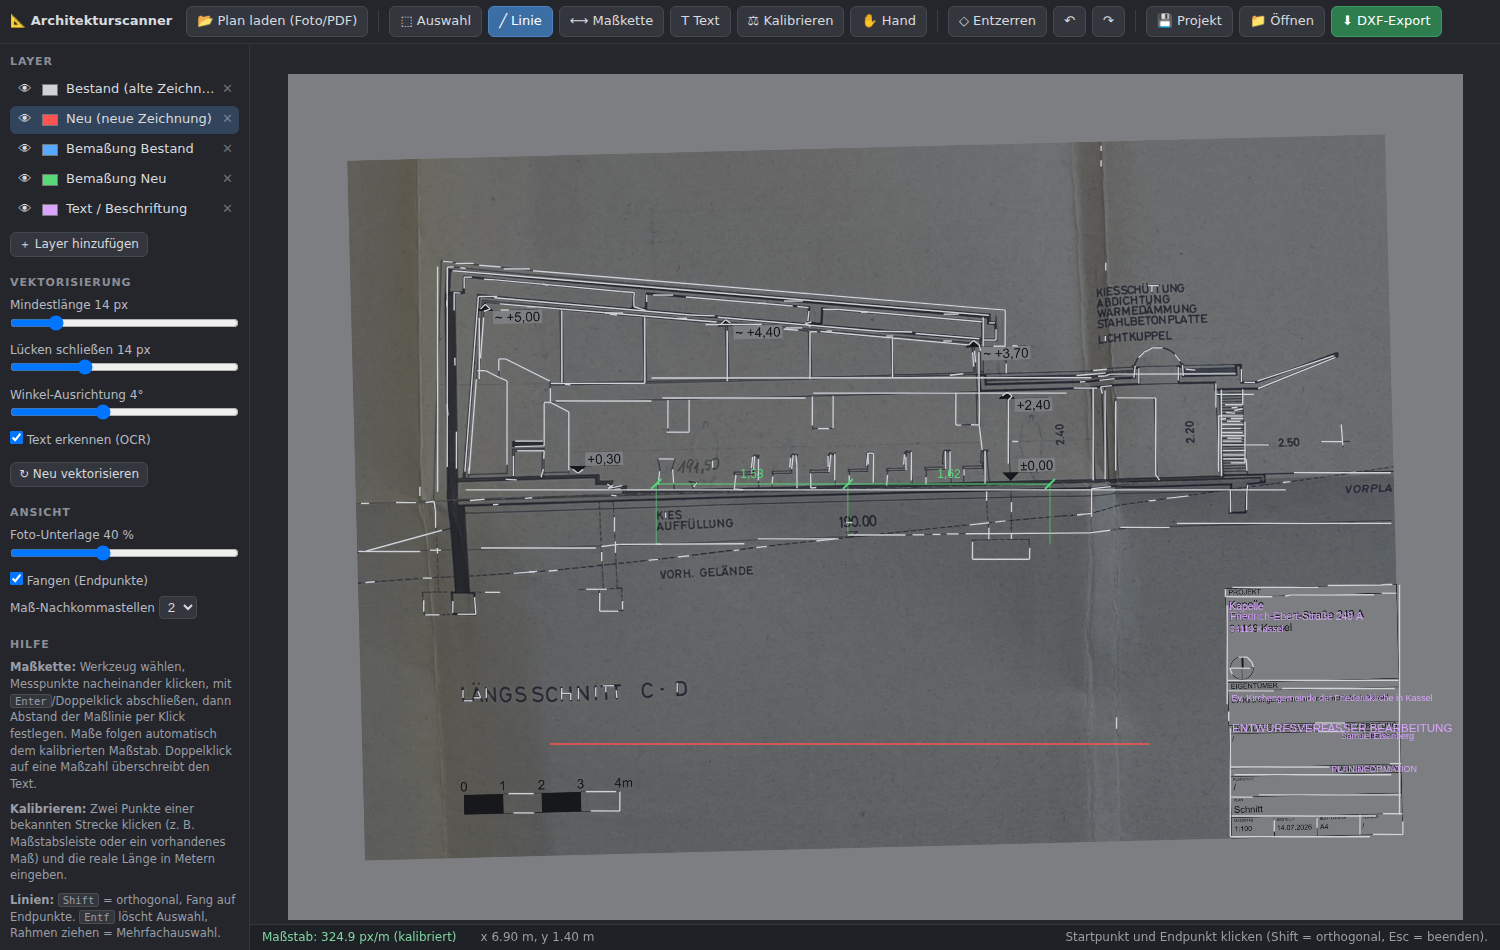
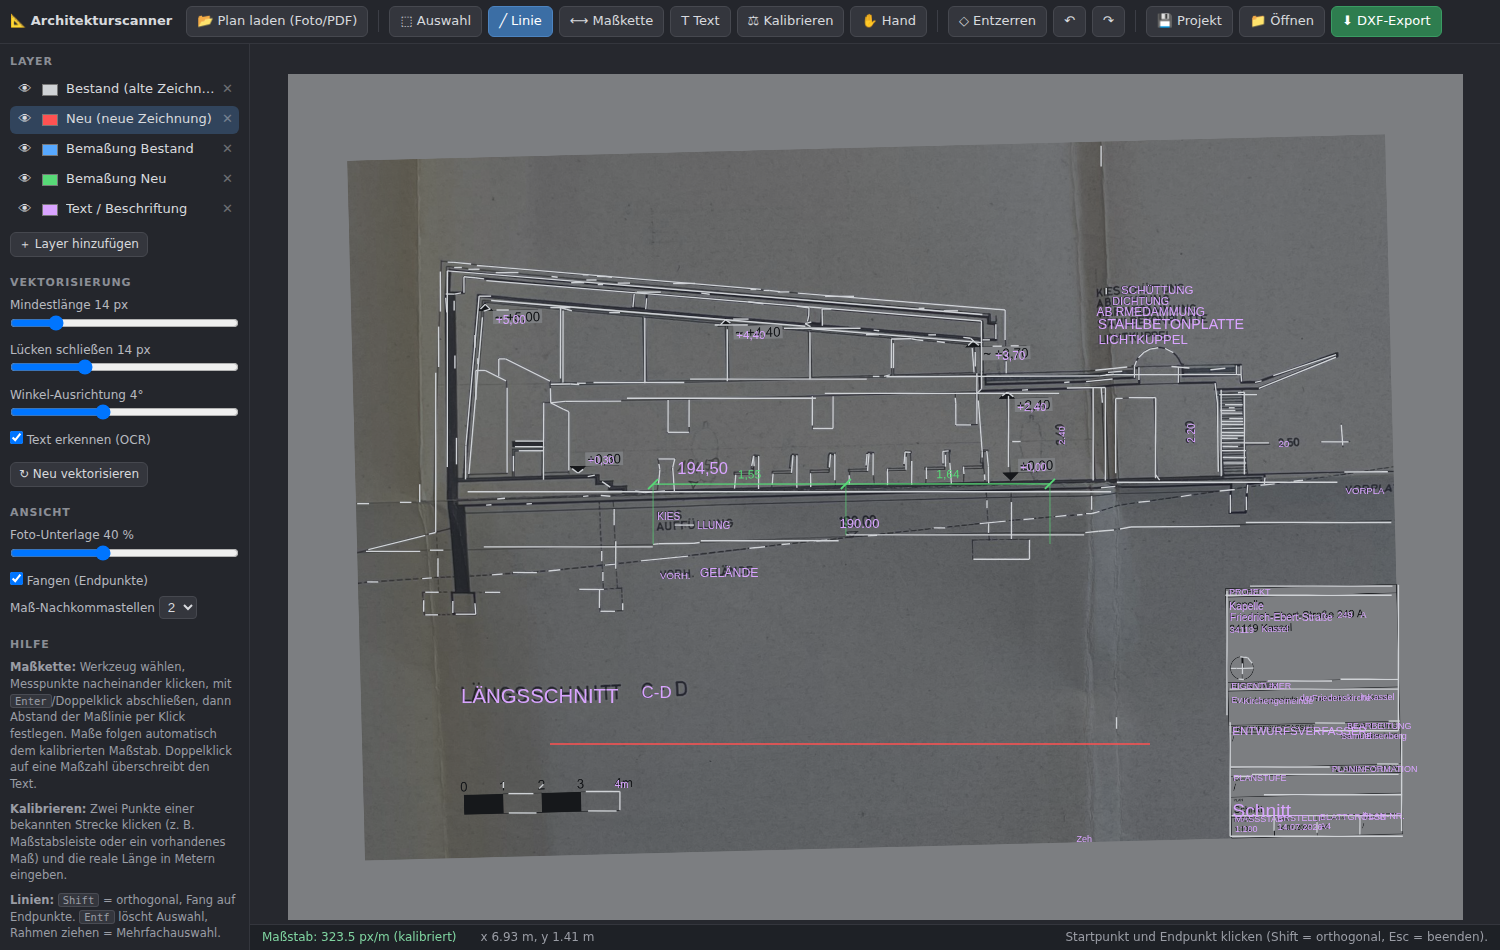
Vollstaendige Text- und Bemassungsuebernahme: Ergebnis wie das Original, nur sauber
- Mehrpass-OCR (Layout- + Streutext-Modus) findet jetzt auch freistehende
  Anmerkungen, Hoehenkoten (+5,00 / +4,40 / ...) und Masszahlen im Plan
- Zusaetzlicher 90-Grad-Durchgang erkennt senkrechte Masszahlen; gedrehter
  Text wird im Editor und im DXF (rotation=90) korrekt dargestellt
- Rettungspass: unerkannte Buchstabenreihen werden ausgeschnitten, 3x
  vergroessert und gezielt nachgelesen (fand z. B. die Hoehenkoten-Labels)
- Nichts verschwindet mehr: Strichbereiche werden nur entfernt, wenn die
  OCR den Text bestaetigt hat - sonst bleiben sie als Linien sichtbar
- Phantomwort-Filter (Linienmuster als Kurztext, Riesenglyphen) und
  Duplikat-/Zeilengruppierung nach Geometrie statt Tesseract-Blocknummern
- JSON-Serialisierung von numpy-Koordinaten behoben

Claude-Session: https://claude.ai/code/session_014BpEi39yU4nPjjX4U4ZZGg

diff --git a/static/app.js b/static/app.js
@@ -182,7 +182,15 @@ function drawEntity(ent, color, selected) {
     const size = Math.max(9, ent.size * state.view.s);
     ctx.font = `${size}px sans-serif`;
     ctx.textAlign = "left"; ctx.textBaseline = "alphabetic";
-    ctx.fillText(ent.text, p.x, p.y);
+    if (ent.angle) {
+      ctx.save();
+      ctx.translate(p.x, p.y);
+      ctx.rotate(-ent.angle * Math.PI / 180);
+      ctx.fillText(ent.text, 0, 0);
+      ctx.restore();
+    } else {
+      ctx.fillText(ent.text, p.x, p.y);
+    }
     if (selected) handle(p);
   } else if (ent.type === "dim") {
     drawDim(ent, color, selected);
@@ -341,7 +349,10 @@ function hitEntity(world) {
       if (distPointSeg(world, { x: ent.x1, y: ent.y1 }, { x: ent.x2, y: ent.y2 }) < tol) return ent;
     } else if (ent.type === "text") {
       const wPix = ent.text.length * ent.size * 0.55;
-      if (world.x >= ent.x - tol && world.x <= ent.x + wPix + tol &&
+      if (ent.angle === 90) {
+        if (world.x >= ent.x - ent.size - tol && world.x <= ent.x + tol &&
+            world.y >= ent.y - wPix - tol && world.y <= ent.y + tol) return ent;
+      } else if (world.x >= ent.x - tol && world.x <= ent.x + wPix + tol &&
           world.y >= ent.y - ent.size - tol && world.y <= ent.y + tol) return ent;
     } else if (ent.type === "dim") {
       const g = dimGeometry(ent);
@@ -855,7 +866,8 @@ async function applyVectorizeResult(data) {
     state.entities = state.entities.filter(ent => !(ent.layer === tl.id && ent.type === "text" && ent.ocr));
     for (const t of data.texts)
       state.entities.push({ id: uid(), type: "text", layer: tl.id, ocr: true,
-                            x: t.x, y: t.y, text: t.text, size: Math.max(10, t.size) });
+                            x: t.x, y: t.y, text: t.text, angle: t.angle || 0,
+                            size: Math.max(10, t.size) });
   }
   state.selection.clear();
   updateScaleLabel();

diff --git a/scanner/vectorize.py b/scanner/vectorize.py
@@ -165,19 +165,15 @@ def mask_word_boxes(binary: np.ndarray, words: list[dict]) -> np.ndarray:
     return out
 
 
-def remove_glyph_blobs(binary: np.ndarray) -> np.ndarray:
-    """Entfernt kleine, kompakte Komponenten (Buchstaben-Reste, Pfeilspitzen),
-    behaelt duenne laengliche Striche und kleine Zeichnungsdetails.
-
-    Bewusst konservativ: nur Komponenten in Glyphengroesse, die weder laenglich
-    (Strich) noch hohl (Zeichnungsdetail aus duennen Linien) sind."""
+def _glyph_candidates(binary: np.ndarray) -> list[tuple[int, int, int, int]]:
+    """Kompakte Komponenten in Buchstabengroesse (moeglicher Text)."""
     h, w = binary.shape
-    tmax = max(12, int(0.012 * max(h, w)))
+    tmax = max(14, int(0.025 * max(h, w)))
     num, labels, stats, _ = cv2.connectedComponentsWithStats(binary, 8)
-    out = binary.copy()
+    boxes: list[tuple[int, int, int, int]] = []
     for i in range(1, num):
         x, y, bw, bh, area = stats[i]
-        if bw > tmax or bh > tmax or area < 12:
+        if bw > tmax or bh > tmax or area < 12 or bh < 6:
             continue
         sub = (labels[y:y + bh, x:x + bw] == i).astype(np.uint8)
         contours, _ = cv2.findContours(sub, cv2.RETR_EXTERNAL, cv2.CHAIN_APPROX_SIMPLE)
@@ -185,12 +181,54 @@ def remove_glyph_blobs(binary: np.ndarray) -> np.ndarray:
             continue
         (_, _), (rw, rh), _ = cv2.minAreaRect(max(contours, key=cv2.contourArea))
         long_side, short_side = max(rw, rh), max(min(rw, rh), 1.0)
-        if long_side / short_side >= 3.5:         # laenglich -> Strich, behalten
+        if long_side / short_side < 3.5:          # kompakt -> Glyphen-Kandidat
+            boxes.append((x, y, bw, bh))
+    return boxes
+
+
+def rescue_text_groups(line_bin: np.ndarray, norm: np.ndarray) -> tuple[np.ndarray, list[dict]]:
+    """Findet Reihen unerkannter Buchstaben und liest sie gezielt nach.
+
+    Nur wenn die Nachlese-OCR den Text bestaetigt, wird der Bereich aus dem
+    Linienbild entfernt und als Textobjekt uebernommen. Unbestaetigte Bereiche
+    bleiben unveraendert sichtbar - es verschwindet nichts vom Original."""
+    boxes = _glyph_candidates(line_bin)
+    if len(boxes) < 3:
+        return line_bin, []
+    # Reihen bilden: von links nach rechts, gleiche Zeile, horizontal benachbart
+    boxes.sort(key=lambda b: b[0])
+    rows: list[list[tuple[int, int, int, int]]] = []
+    for b in boxes:
+        placed = False
+        for row in rows:
+            lx, ly, lw, lh = row[-1]
+            band = max(b[3], lh)
+            same_band = abs((b[1] + b[3] / 2) - (ly + lh / 2)) < 0.6 * band
+            gap = b[0] - (lx + lw)
+            if same_band and -0.3 * lw <= gap < 2.0 * band:
+                row.append(b)
+                placed = True
+                break
+        if not placed:
+            rows.append([b])
+
+    out = line_bin.copy()
+    rescued: list[dict] = []
+    for row in rows:
+        if len(row) < 3:                          # einzelne Blobs: Symbole, behalten
             continue
-        fill = area / max(rw * rh, 1.0)
-        if fill >= 0.22:                          # kompakt gefuellt -> Glyphe/Pfeil
-            out[y:y + bh, x:x + bw][sub > 0] = 0
-    return out
+        x0 = min(b[0] for b in row); y0 = min(b[1] for b in row)
+        x1 = max(b[0] + b[2] for b in row); y1 = max(b[1] + b[3] for b in row)
+        words = ocr_crop(norm, (x0, y0, x1 - x0, y1 - y0))
+        text = " ".join(w["text"] for w in words)
+        if not words or sum(len(w["text"]) for w in words) < max(2, len(row) // 2):
+            continue                              # nicht bestaetigt -> sichtbar lassen
+        pad = 2
+        out[max(0, y0 - pad):y1 + pad, max(0, x0 - pad):x1 + pad] = 0
+        rescued.append({"text": text, "conf": min(w["conf"] for w in words),
+                        "angle": 0, "x": x0, "y": y0,
+                        "w": x1 - x0, "h": y1 - y0})
+    return out, rescued
 
 
 def split_thick(binary: np.ndarray, thickness: int) -> tuple[np.ndarray, np.ndarray]:
@@ -257,7 +295,7 @@ def snap_angles(segments: np.ndarray, tol_deg: float) -> np.ndarray:
 
 
 def bridge_text_gaps(segments: np.ndarray, p: VectorizeParams,
-                     gap: float = 70.0, min_support: float = 40.0) -> np.ndarray:
+                     gap: float = 90.0, min_support: float = 45.0) -> np.ndarray:
     """Ueberbrueckt grosse Luecken (z. B. wo Beschriftung auf der Linie sass),
     aber nur zwischen bereits langen kollinearen Segmenten, damit Strichlinien
     und benachbarte Details nicht faelschlich verklebt werden."""
@@ -442,44 +480,157 @@ def encode_png_base64(img: np.ndarray) -> str:
     return base64.b64encode(buf.tobytes()).decode("ascii")
 
 
-def ocr_words(img: np.ndarray) -> list[dict]:
-    """Wortweise Texterkennung mit Tesseract (leer, falls nicht verfuegbar)."""
+_WORD_RE = None
+
+
+def _has_content(txt: str) -> bool:
+    return any(c.isalnum() for c in txt)
+
+
+def _tess_words(gray: np.ndarray, psm: int, min_conf: int,
+                scale: float = 1.0, origin: tuple[int, int] = (0, 0)) -> list[dict]:
+    """Ein Tesseract-Durchgang -> Wortliste in Bildkoordinaten."""
     try:
         import pytesseract
-        gray = cv2.cvtColor(img, cv2.COLOR_BGR2GRAY)
-        data = pytesseract.image_to_data(gray, lang="deu",
+        data = pytesseract.image_to_data(gray, lang="deu", config=f"--psm {psm}",
                                          output_type=pytesseract.Output.DICT)
     except Exception:
         return []
     words: list[dict] = []
     for i in range(len(data["text"])):
         txt = data["text"][i].strip()
-        conf = int(float(data["conf"][i]))
-        if not txt or conf < 40:
+        try:
+            conf = int(float(data["conf"][i]))
+        except (ValueError, TypeError):
+            continue
+        if not txt or conf < min_conf or not _has_content(txt):
             continue
         words.append({
-            "text": txt, "conf": conf,
-            "x": data["left"][i], "y": data["top"][i],
-            "w": data["width"][i], "h": data["height"][i],
-            "line_key": (data["block_num"][i], data["par_num"][i], data["line_num"][i]),
+            "text": txt, "conf": conf, "angle": 0,
+            "x": int(data["left"][i] / scale) + origin[0],
+            "y": int(data["top"][i] / scale) + origin[1],
+            "w": max(int(data["width"][i] / scale), 1),
+            "h": max(int(data["height"][i] / scale), 1),
         })
     return words
 
 
-def group_text_lines(words: list[dict], min_conf: int = 55) -> list[dict]:
-    """Woerter zu Textzeilen gruppieren (fuer Text-Entities im Plan)."""
-    lines: dict[tuple, list[dict]] = {}
-    for wd in words:
-        if wd["conf"] >= min_conf:
-            lines.setdefault(wd["line_key"], []).append(wd)
+def _iou(a: dict, b: dict) -> float:
+    x1 = max(a["x"], b["x"]); y1 = max(a["y"], b["y"])
+    x2 = min(a["x"] + a["w"], b["x"] + b["w"])
+    y2 = min(a["y"] + a["h"], b["y"] + b["h"])
+    inter = max(0, x2 - x1) * max(0, y2 - y1)
+    if inter == 0:
+        return 0.0
+    return inter / (a["w"] * a["h"] + b["w"] * b["h"] - inter)
+
+
+def _dedupe_words(words: list[dict]) -> list[dict]:
+    kept: list[dict] = []
+    for wd in sorted(words, key=lambda w: -w["conf"]):
+        if all(_iou(wd, k) <= 0.25 for k in kept):
+            kept.append(wd)
+    return kept
+
+
+_MEASURE_RE = __import__("re").compile(r"^[~±+\-=≈]*\d+[.,]\d+[\"'°”]*$")
+
+
+def _plausible(wd: dict) -> bool:
+    """Filtert OCR-Phantomwoerter (Linienmuster, die wie Kurztext aussehen)."""
+    txt = wd["text"]
+    if wd["h"] < 9:
+        return False
+    if wd["angle"] == 90:
+        # senkrecht stehen praktisch nur Masszahlen; sonst sehr strenge Regeln
+        return bool(_MEASURE_RE.match(txt)) or (len(txt) >= 4 and wd["conf"] >= 80)
+    if len(txt) <= 2 and wd["conf"] < 70 and not any(c.isdigit() for c in txt):
+        return False
+    # riesige "Woerter" mit wenigen Zeichen sind fast immer fehlgelesene Grafik
+    if wd["h"] >= 60 and len(txt) <= 4 and not _MEASURE_RE.match(txt):
+        return False
+    return True
+
+
+def ocr_words(norm: np.ndarray) -> list[dict]:
+    """Mehrpass-Texterkennung auf dem beleuchtungskorrigierten Graubild:
+    Layout-Modus + Streutext-Modus + um 90 Grad gedrehter Durchgang fuer
+    senkrechte Beschriftungen (Masszahlen)."""
+    words = _tess_words(norm, psm=3, min_conf=45)
+    words += _tess_words(norm, psm=11, min_conf=55)
+
+    # gedrehte Beschriftung (liest von unten nach oben)
+    h = norm.shape[0]
+    rot = cv2.rotate(norm, cv2.ROTATE_90_CLOCKWISE)
+    for wd in _tess_words(rot, psm=11, min_conf=60):
+        if len(wd["text"]) < 2:
+            continue
+        # Ruecktransformation: (x', y') = (H-1-y, x)
+        x = wd["y"]
+        y = h - 1 - (wd["x"] + wd["w"])
+        words.append({**wd, "x": x, "y": y, "w": wd["h"], "h": wd["w"],
+                      "angle": 90})
+    return _dedupe_words([wd for wd in words if _plausible(wd)])
+
+
+def ocr_crop(norm: np.ndarray, box: tuple[int, int, int, int],
+             min_conf: int = 45) -> list[dict]:
+    """Gezielter OCR-Versuch auf einem Ausschnitt (2x vergroessert, eine Zeile)."""
+    x, y, w, h = box
+    pad = max(4, h // 4)
+    x0, y0 = max(0, x - pad), max(0, y - pad)
+    x1, y1 = min(norm.shape[1], x + w + pad), min(norm.shape[0], y + h + pad)
+    sub = norm[y0:y1, x0:x1]
+    if sub.size == 0:
+        return []
+    sub2 = cv2.resize(sub, None, fx=3, fy=3, interpolation=cv2.INTER_CUBIC)
+    return _tess_words(sub2, psm=7, min_conf=min_conf, scale=3.0, origin=(x0, y0))
+
+
+def group_text_lines(words: list[dict], min_conf: int = 45) -> list[dict]:
+    """Woerter geometrisch zu Textzeilen gruppieren (fuer Text-Entities)."""
     items: list[dict] = []
-    for group in lines.values():
-        group.sort(key=lambda wd: wd["x"])
-        x = min(wd["x"] for wd in group)
-        y = min(wd["y"] for wd in group)
-        h = max(wd["h"] for wd in group)
-        items.append({"text": " ".join(wd["text"] for wd in group),
-                      "x": x, "y": y + h, "size": h})
+    for angle in (0, 90):
+        ws = [w for w in words if w["angle"] == angle and w["conf"] >= min_conf]
+        if angle == 0:
+            ws.sort(key=lambda w: (w["y"] + w["h"] / 2, w["x"]))
+        else:
+            ws.sort(key=lambda w: (w["x"] + w["w"] / 2, -w["y"]))
+        rows: list[list[dict]] = []
+        for wd in ws:
+            placed = False
+            for row in rows:
+                last = row[-1]
+                if angle == 0:
+                    same_band = abs((wd["y"] + wd["h"] / 2) - (last["y"] + last["h"] / 2)) \
+                        < 0.7 * max(wd["h"], last["h"])
+                    similar_size = min(wd["h"], last["h"]) / max(wd["h"], last["h"]) > 0.5
+                    gap = wd["x"] - (last["x"] + last["w"])
+                    # kein starkes Ueberlappen (Duplikate aus zwei OCR-Durchgaengen)
+                    ok = same_band and similar_size and \
+                        -0.4 * last["w"] < gap < 1.8 * max(wd["h"], last["h"])
+                else:
+                    same_band = abs((wd["x"] + wd["w"] / 2) - (last["x"] + last["w"] / 2)) \
+                        < 0.7 * max(wd["w"], last["w"])
+                    ok = same_band and (last["y"] - (wd["y"] + wd["h"])) < 2.5 * max(wd["w"], last["w"])
+                if ok:
+                    row.append(wd)
+                    placed = True
+                    break
+            if not placed:
+                rows.append([wd])
+        for row in rows:
+            if angle == 0:
+                x = min(w["x"] for w in row)
+                y = max(w["y"] + w["h"] for w in row)
+                size = max(w["h"] for w in row)
+            else:
+                x = max(w["x"] + w["w"] for w in row)
+                y = max(w["y"] + w["h"] for w in row)
+                size = max(w["w"] for w in row)
+            items.append({"text": " ".join(w["text"] for w in row),
+                          "x": int(x), "y": int(y), "size": int(size),
+                          "angle": angle})
     return items
 
 
@@ -502,9 +653,13 @@ def vectorize(img: np.ndarray, params: VectorizeParams | None = None,
     binary = cv2.bitwise_and(binary, paper_mask(img))
 
     # 3) Text erkennen und aus dem Linienbild entfernen (Text bleibt Text!)
-    words = ocr_words(img) if with_ocr else []
+    #    Entfernt wird nur, was die OCR wirklich gelesen hat - unbestaetigte
+    #    Bereiche bleiben als Linien sichtbar, damit nichts verschwindet.
+    words = ocr_words(norm) if with_ocr else []
     line_bin = mask_word_boxes(binary, words) if words else binary
-    line_bin = remove_glyph_blobs(line_bin)
+    if with_ocr:
+        line_bin, rescued = rescue_text_groups(line_bin, norm)
+        words += rescued
 
     # 4) gefuellte Flaechen (Waende) als saubere Konturen, duenne Striche per Skelett
     thick, thin = split_thick(line_bin, p.thick_stroke)

diff --git a/scanner/dxf_export.py b/scanner/dxf_export.py
@@ -79,9 +79,10 @@ def export_dxf(project: dict) -> bytes:
         elif etype == "text":
             x, y = tr(ent["x"], ent["y"])
             height = max(float(ent.get("size", 12)) / px_per_m, 0.05)
-            msp.add_text(ent.get("text", ""),
-                         dxfattribs={**attribs, "height": height}
-                         ).set_placement((x, y), align=TextEntityAlignment.BOTTOM_LEFT)
+            text = msp.add_text(ent.get("text", ""),
+                                dxfattribs={**attribs, "height": height,
+                                            "rotation": float(ent.get("angle", 0))})
+            text.set_placement((x, y), align=TextEntityAlignment.BOTTOM_LEFT)
         elif etype == "dim":
             _export_dim_chain(msp, ent, tr, attribs, px_per_m)
 
